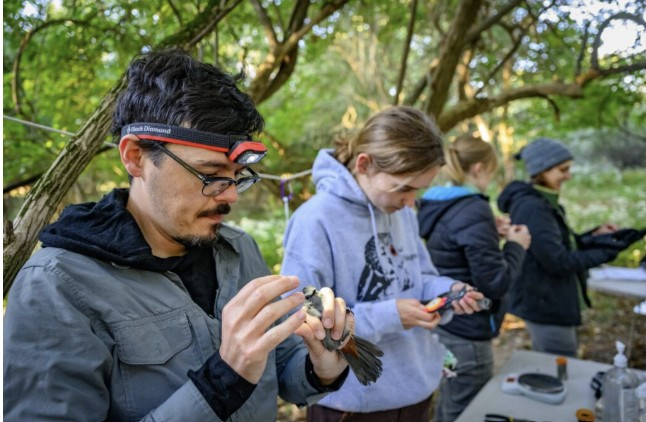
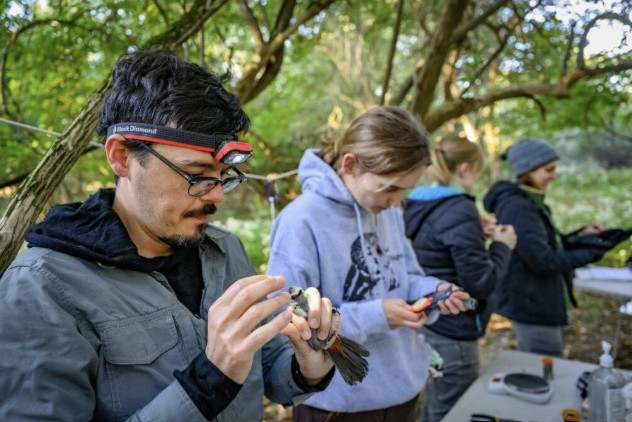
updating some written content and prose page photos

diff --git a/frontend/src/pages/HomePage.jsx b/frontend/src/pages/HomePage.jsx
@@ -2,8 +2,9 @@ import { Link } from 'react-router-dom'
 import heroImg from '../assets/hero.jpg'
 import { getContent } from '../data/content'
 
-// Editable copy lives in written_content/home.md. The "Explore the Site" grid
-// below (labels, photos, links) stays defined here on purpose.
+// Editable copy lives in written_content/home.md. For the "Explore the Site"
+// grid, the card TEXT (label / heading / desc) is authored in home.md under
+// `features:`; the structural bits below (route, accent, photo) stay here.
 const home = getContent('home')
 const MISSION_STATEMENT =
   'Illinois is home to over 400 species of birds, from year-round residents to spectacular ' +
@@ -15,64 +16,80 @@ const MISSION_STATEMENT =
 // Toggle to false to instantly revert cards to plain white background
 const SHOW_CARD_PHOTOS = true
 
-const FEATURES = [
+// Structural layout for each card, in grid order. Card text comes from
+// home.md (`features:`, matched on `path`); the strings here are the fallback
+// if that entry is missing.
+const FEATURE_LAYOUT = [
   {
     path: '/bird-species',
+    accent: 'var(--orange)',
+    photo: 'bird-species.jpg',
     label: 'Bird Species',
     heading: 'Discover Illinois Birds',
     desc: 'Explore detailed profiles of over 400 bird species documented across Illinois, including identification guides, habitat information, and seasonal range maps.',
-    accent: 'var(--orange)',
-    photo: 'bird-species.jpg',
   },
   {
     path: '/migration',
+    accent: 'var(--orange)',
+    photo: 'migration.jpg',
     label: 'Migration',
     heading: 'Track Seasonal Movements',
     desc: 'Follow the remarkable journeys of migratory birds through Illinois, from spring arrivals to fall departures, with route maps and peak timing guides.',
-    accent: 'var(--orange)',
-    photo: 'migration.jpg',
   },
   {
     path: '/monitoring',
+    accent: 'var(--orange)',
+    photo: 'monitoring-programs.jpg',
     label: 'Monitoring Programs',
     heading: 'Community Science in Action',
     desc: 'Learn about long-term bird monitoring programs across the state and how citizen science efforts are tracking population changes over decades.',
-    accent: 'var(--orange)',
-    photo: 'monitoring-programs.jpg',
   },
   {
     path: '/conservation',
+    accent: 'var(--orange)',
+    photo: 'conservation.png',
     label: 'Conservation',
     heading: 'Protecting Illinois Habitats',
     desc: 'Understand the conservation challenges facing Illinois birds and explore ongoing efforts to protect the habitats they depend on throughout their life cycles.',
-    accent: 'var(--orange)',
-    photo: 'conservation.png',
   },
   {
     path: '/data-explorer',
+    accent: 'var(--orange)',
+    photo: 'data-explorer.png',
     label: 'Data Explorer',
     heading: 'Explore the Data',
     desc: 'Access interactive maps, population trend charts, and historical records drawn from decades of bird monitoring data collected across Illinois.',
-    accent: 'var(--orange)',
-    photo: 'data-explorer.png',
   },
   {
     path: '/education',
+    accent: 'var(--orange)',
+    photo: 'education.jpg',
     label: 'Education & Volunteers',
     heading: 'Learn and Get Involved',
     desc: 'Find resources for new and experienced birders, connect with volunteer monitoring programs, and discover upcoming events and field trips near you.',
-    accent: 'var(--orange)',
-    photo: 'education.jpg',
   },
   {
     path: '/birdlab',
+    accent: 'var(--orange)',
+    photo: 'illinois-birdlab.png',
     label: 'Illinois BirdLab',
     heading: 'Field Research & Discovery',
     desc: "Explore the research programs, publications, and team behind Illinois BirdLab — advancing scientific understanding of the state's avian communities.",
-    accent: 'var(--orange)',
-    photo: 'illinois-birdlab.png',
   },
 ]
+
+// Overlay the home.md card text onto the layout, matched by `path`.
+const FEATURES = FEATURE_LAYOUT.map((base) => {
+  const copy = (home?.features ?? []).find((f) => f && f.path === base.path)
+  return copy
+    ? {
+        ...base,
+        label: copy.label ?? base.label,
+        heading: copy.heading ?? base.heading,
+        desc: copy.desc ?? base.desc,
+      }
+    : base
+})
 
 export default function HomePage() {
   return (
@@ -117,7 +134,6 @@ export default function HomePage() {
       {/* ── FEATURES ── */}
       <section className="features" aria-labelledby="features-heading">
         <div className="features__inner">
-          <span className="placeholder-label">Placeholder text</span>
           <h2 id="features-heading" className="features__heading">
             {home?.featuresHeading ?? 'Explore the Site'}
           </h2>
@@ -141,7 +157,6 @@ export default function HomePage() {
                 />
                 <div className="feature-card__body">
                   <span className="feature-card__label">{card.label}</span>
-                  <span className="placeholder-label">Placeholder text</span>
                   <h3 className="feature-card__heading">{card.heading}</h3>
                   <p className="feature-card__desc">{card.desc}</p>
                   <span className="feature-card__cta">

diff --git a/frontend/src/components/Header.jsx b/frontend/src/components/Header.jsx
@@ -22,6 +22,9 @@ export default function Header() {
 
       <Link slot="site-name" to="/">Illinois Bird Explorer</Link>
 
+      {/* Utility "eyebrow" links — hidden for now: none of these have a
+          destination yet. Restore this block (it slots into the ilw-header
+          top strip) once About / Contact / Search pages exist.
       <nav slot="links" aria-label="Utility">
         <ul>
           <li><a href="#">About</a></li>
@@ -29,6 +32,7 @@ export default function Header() {
           <li><a href="#">Search</a></li>
         </ul>
       </nav>
+      */}
 
       <ilw-header-menu slot="navigation">
         <ul>

diff --git a/CLAUDE.md b/CLAUDE.md
@@ -64,7 +64,7 @@ hot-reloaded). Full walkthrough: `species_account_files/additional_photos/README
 - `src/main.jsx` — entry point; mounts `<App>` into `#root`; imports `index.css` then `css/styles.css`
 - `src/App.jsx` — router setup only (`BrowserRouter` + `Routes`); wraps every page in `<Header>` / `<Footer>` and scrolls to top on route change
 - `src/pages/` — route components. Most nav sections (Migration, Monitoring Programs, Conservation, Education, Illinois BirdLab) have **no landing page** — their header title is a dropdown toggle only. Their sub-pages are all Markdown-backed (see below). Bespoke page components remain for Bird Species (`/bird-species` index + `/bird-species/:slug[/phenology|/trends|/photos]` via `SpeciesDetailPage`), Extinct Birds (`/conservation/extinct-birds[/:slug]`), Data Explorer, and Home
-- `written_content/<section>/<slug>.md` — the prose pages for Migration / Monitoring / Conservation / Education / BirdLab. `ContentPage.jsx` renders them: YAML frontmatter (`title`, `intro?`, `updated?`, `placeholder?`, `resources?[]`, `hero?: {src, alt, credit}`) + a Markdown body via `react-markdown` + `remark-gfm`. Loaded by `src/data/content.js` (`getContent(section, slug)`). Routes are `<Route path="/<section>/:slug" element={<ContentPage section="<section>" sectionLabel="…" />} />`. `written_content/home.md` holds the editable Home copy (mission text + section headings), read by `HomePage.jsx` via `getContent('home')`; the "Explore the Site" grid stays hardcoded in `HomePage.jsx`
+- `written_content/<section>/<slug>.md` — the prose pages for Migration / Monitoring / Conservation / Education / BirdLab. `ContentPage.jsx` renders them: YAML frontmatter (`title`, `intro?`, `updated?`, `placeholder?`, `resources?[]`, `hero?: {src, alt, credit}`) + a Markdown body via `react-markdown` + `remark-gfm`. Loaded by `src/data/content.js` (`getContent(section, slug)`). Routes are `<Route path="/<section>/:slug" element={<ContentPage section="<section>" sectionLabel="…" />} />`. `written_content/home.md` holds the editable Home copy (mission text + section headings + the "Explore the Site" card text under `features:`), read by `HomePage.jsx` via `getContent('home')`. Each `features:` entry is matched to a card by `path`; `HomePage.jsx` keeps the card layout (route, accent, photo) and the fallback strings in `FEATURE_LAYOUT` and overlays the home.md text on top
 - **Photos on prose pages:** a Markdown image `![caption](/content_images/<section>/<slug>/x.webp "credit")` renders via a `components.img`/`p` override in `ContentPage.jsx` as a captioned `.content-figure` (alt = caption, title = credit). `?full` on the src → full-width; two or three image lines with no blank line between → a `.content-figure--group` side-by-side row; blank line between → separate stacked figures. `hero` frontmatter → a `.content-hero` banner above the body. Sources in `content_images_src/<section>/<slug>/`, converted to `public/content_images/<section>/<slug>/` by `scripts/convert-photos.ps1 content <section>/<slug>`. See `content_images_src/README.md`
 - `species_account_files/accounts/<slug>.md` — species detail content (separate rigid-schema loader, `src/data/speciesAccounts.js`); `species_account_files/full_bird_list_photos.csv` drives the species directory via `src/data/species.js`. Headings map to `SpeciesDetailPage` tabs: `## Species Description` + `## Fast Facts` + `## Phenology` feed Overview/Phenology, `## Illinois Population Trends` → `### History` feeds Trends. Overview tab renders **Species Description → Conservation Status → Fast Facts**: the `### Conservation Status` field lives under `## Fast Facts` in the file but is pulled out and shown as its own prose section (not a card); the Fast Facts card grid is the fixed 4 — Rangewide Distribution, Breeding Habitat, Illinois Abundance, Diet (order set by `FAST_FACTS` in `speciesAccounts.js`, not the file)
 - `species_account_files/accounts/additional_photo_info/<slug>.yml` — optional per-species extra photos for the "Photos" tab (loader `src/data/speciesPhotos.js`, `getSpeciesPhotos(slug)`). Shape: `photos: [{ file, caption, credit }]`. Images at `public/species_photos/additional/<slug>/<file>.webp` (+ `thumb/`), sources at `species_account_files/additional_photos/<slug>/`. No sidecar → no Photos tab. `normalize-accounts.mjs` ignores `additional_photo_info/` (it only touches `accounts/*.md`) — keep it that way. See `additional_photo_info/README.md`

diff --git a/frontend/written_content/home.md b/frontend/written_content/home.md
@@ -4,6 +4,40 @@ missionHeading: Connecting People with Illinois Birds
 featuresHeading: Explore the Site
 featuresSubheading: Everything you need to learn about, track, and protect Illinois birds.
 placeholder: false
+
+# "Explore the Site" cards. Each entry is one card in the grid; `path` picks
+# which card (and must match the route in HomePage.jsx — don't change it).
+# Edit label / heading / desc freely. Card photo, accent colour, and link
+# target stay in HomePage.jsx.
+features:
+  - path: /bird-species
+    label: Bird Species
+    heading: Discover Illinois Birds
+    desc: Explore detailed profiles of over 300 bird species documented across Illinois throughout the year. 
+  - path: /migration
+    label: Migration
+    heading: Track Seasonal Movements
+    desc: learn about ongoing research programs focused on advancing our understanding of how birds move across North America each spring and fall. 
+  - path: /monitoring
+    label: Monitoring Programs
+    heading: Community Science in Action
+    desc: Learn about long-term bird monitoring programs across the state and how citizen science efforts are tracking population changes over decades.
+  - path: /conservation
+    label: Conservation
+    heading: Protecting Illinois Habitats
+    desc: Understand the conservation challenges facing Illinois birds and explore ongoing efforts to protect the habitats they depend on throughout their life cycles.
+  - path: /data-explorer
+    label: Data Explorer
+    heading: Explore the Data
+    desc: Access maps, population trend charts, and historical records drawn from decades of bird monitoring data collected across Illinois.
+  - path: /education
+    label: Education & Volunteers
+    heading: Learn and Get Involved
+    desc: Find resources for new and experienced birders, connect with volunteer monitoring programs, and discover upcoming events and field trips near you.
+  - path: /birdlab
+    label: Illinois BirdLab
+    heading: Field Research & Discovery
+    desc: "Learn more about the team behind Illinois BirdLab, who are working to advance our scientific understanding of the state's avian communities."
 ---
 
 Illinois is home to over 300 species of birds, from year-round residents to spectacular seasonal migrants passing through on their journeys across the continent. This resource brings together scientific data, community observations, and conservation information to help agencies, land managers, researchers, and the public understand and protect the birds of Illinois.
